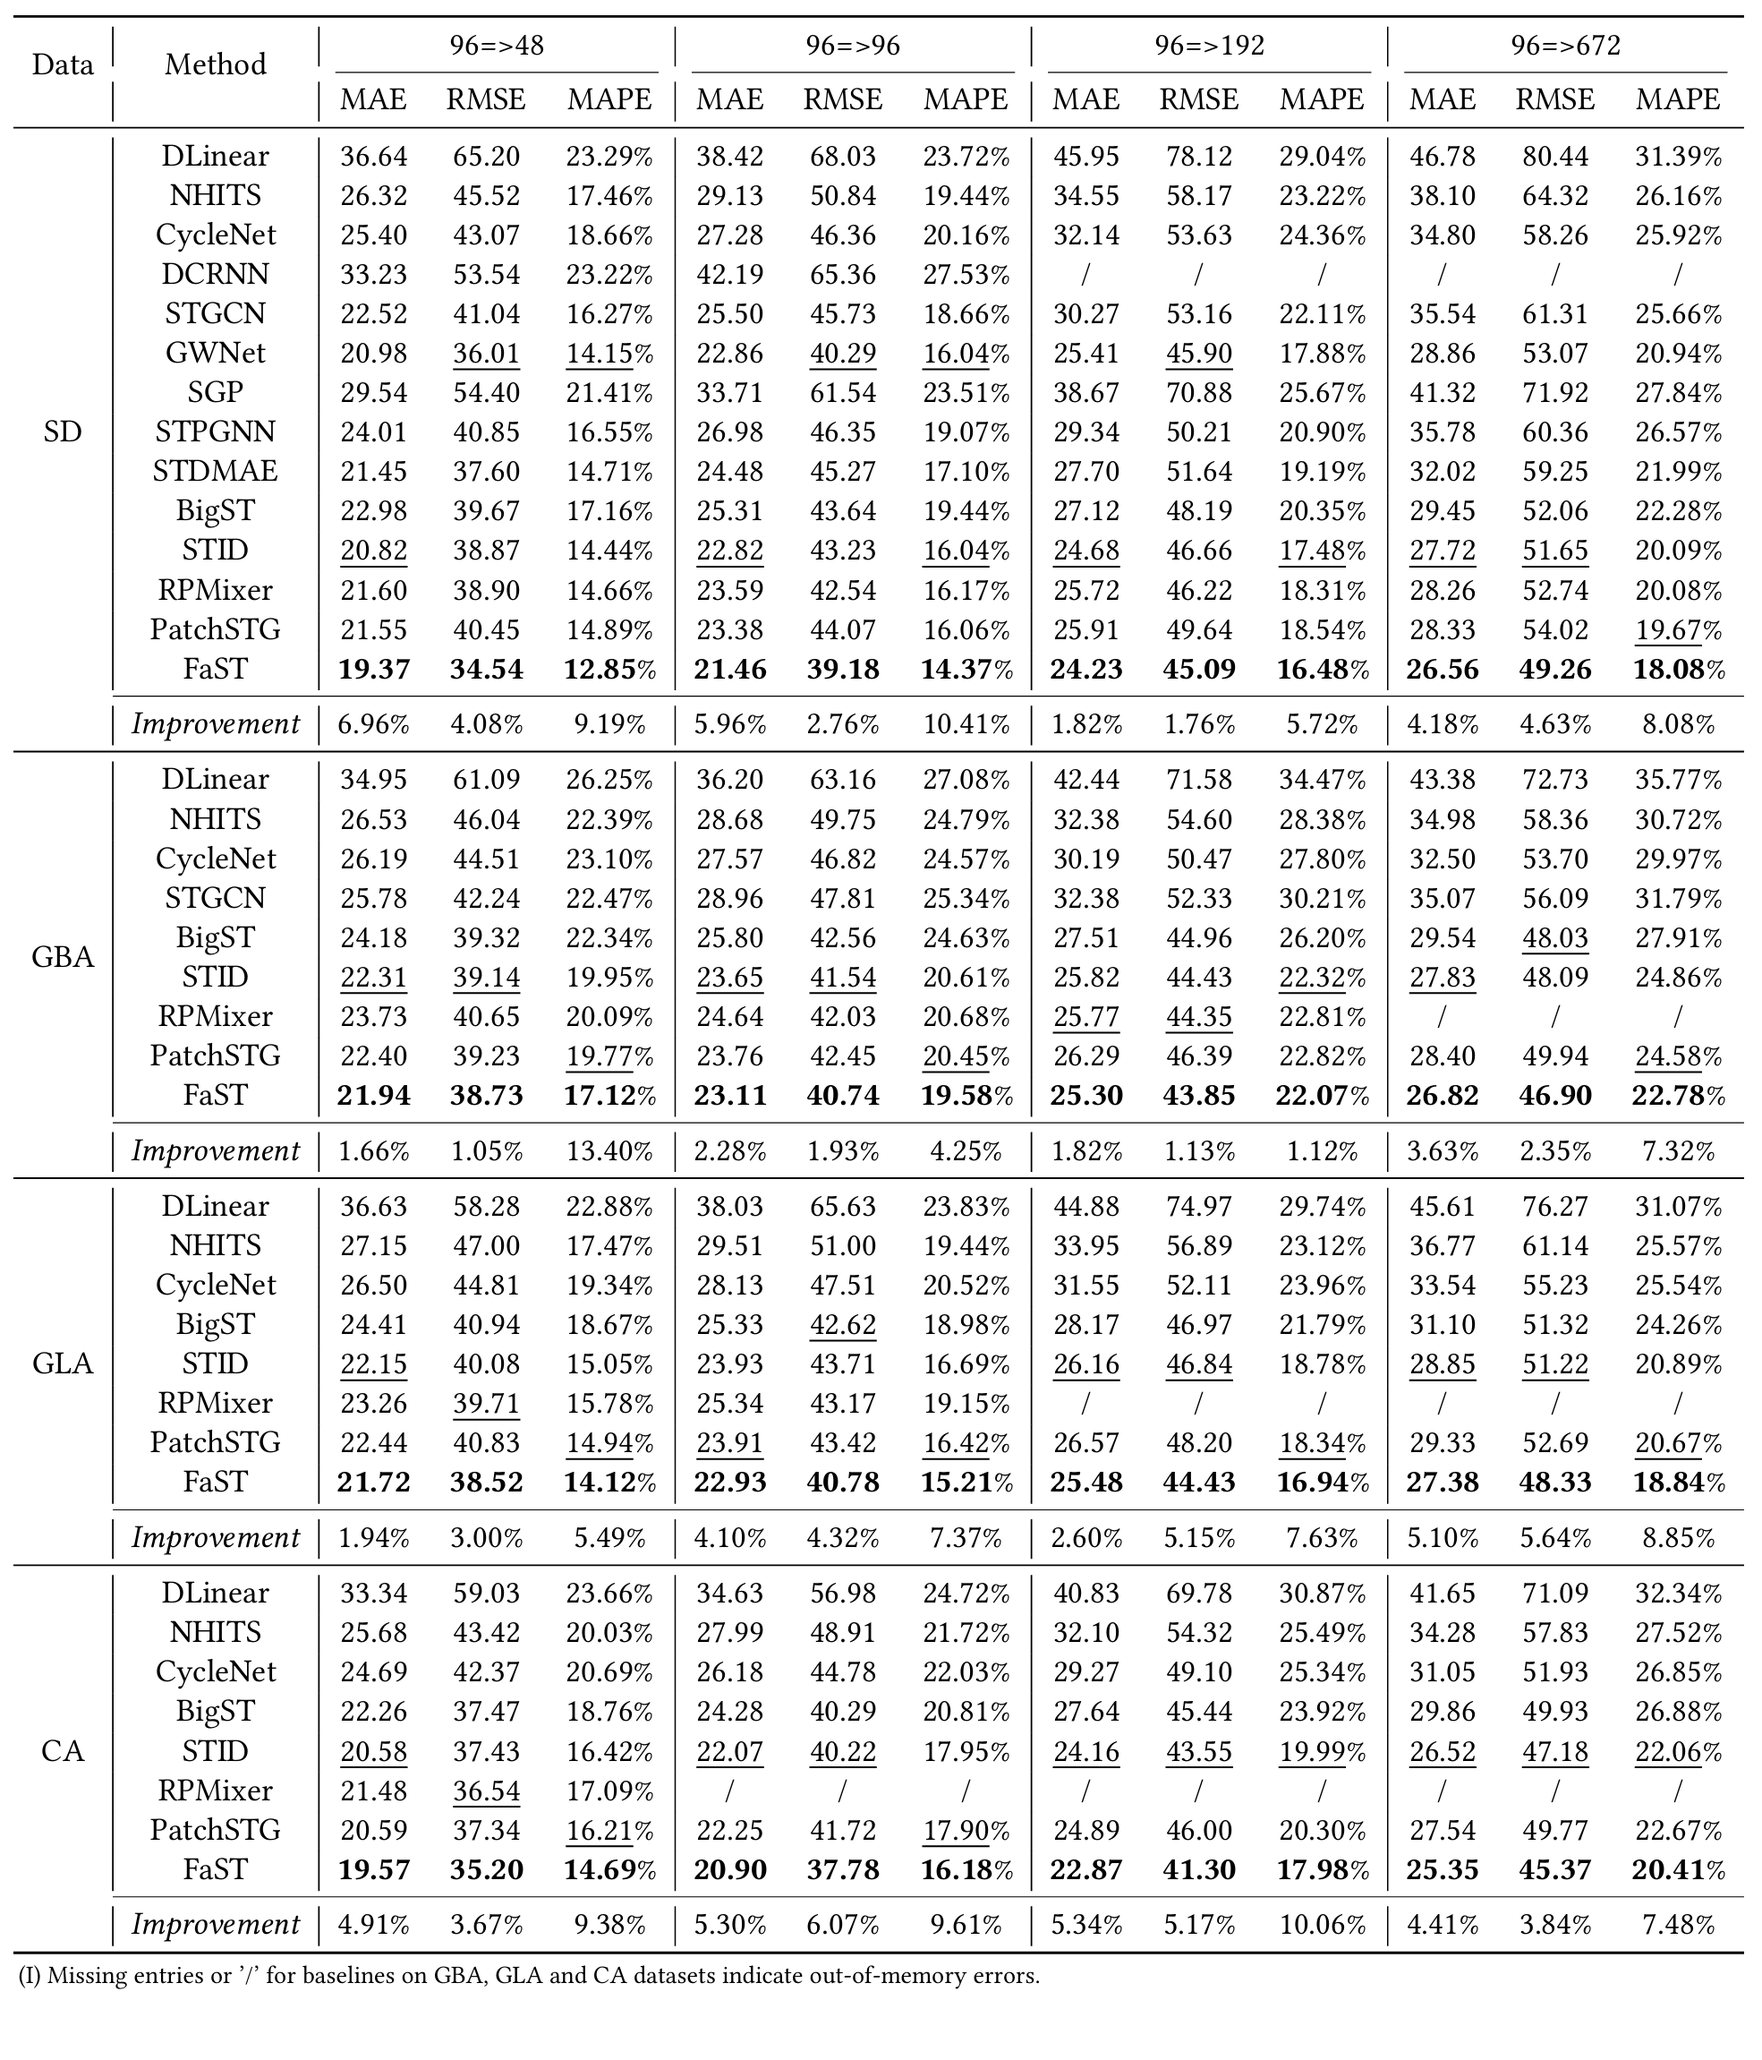
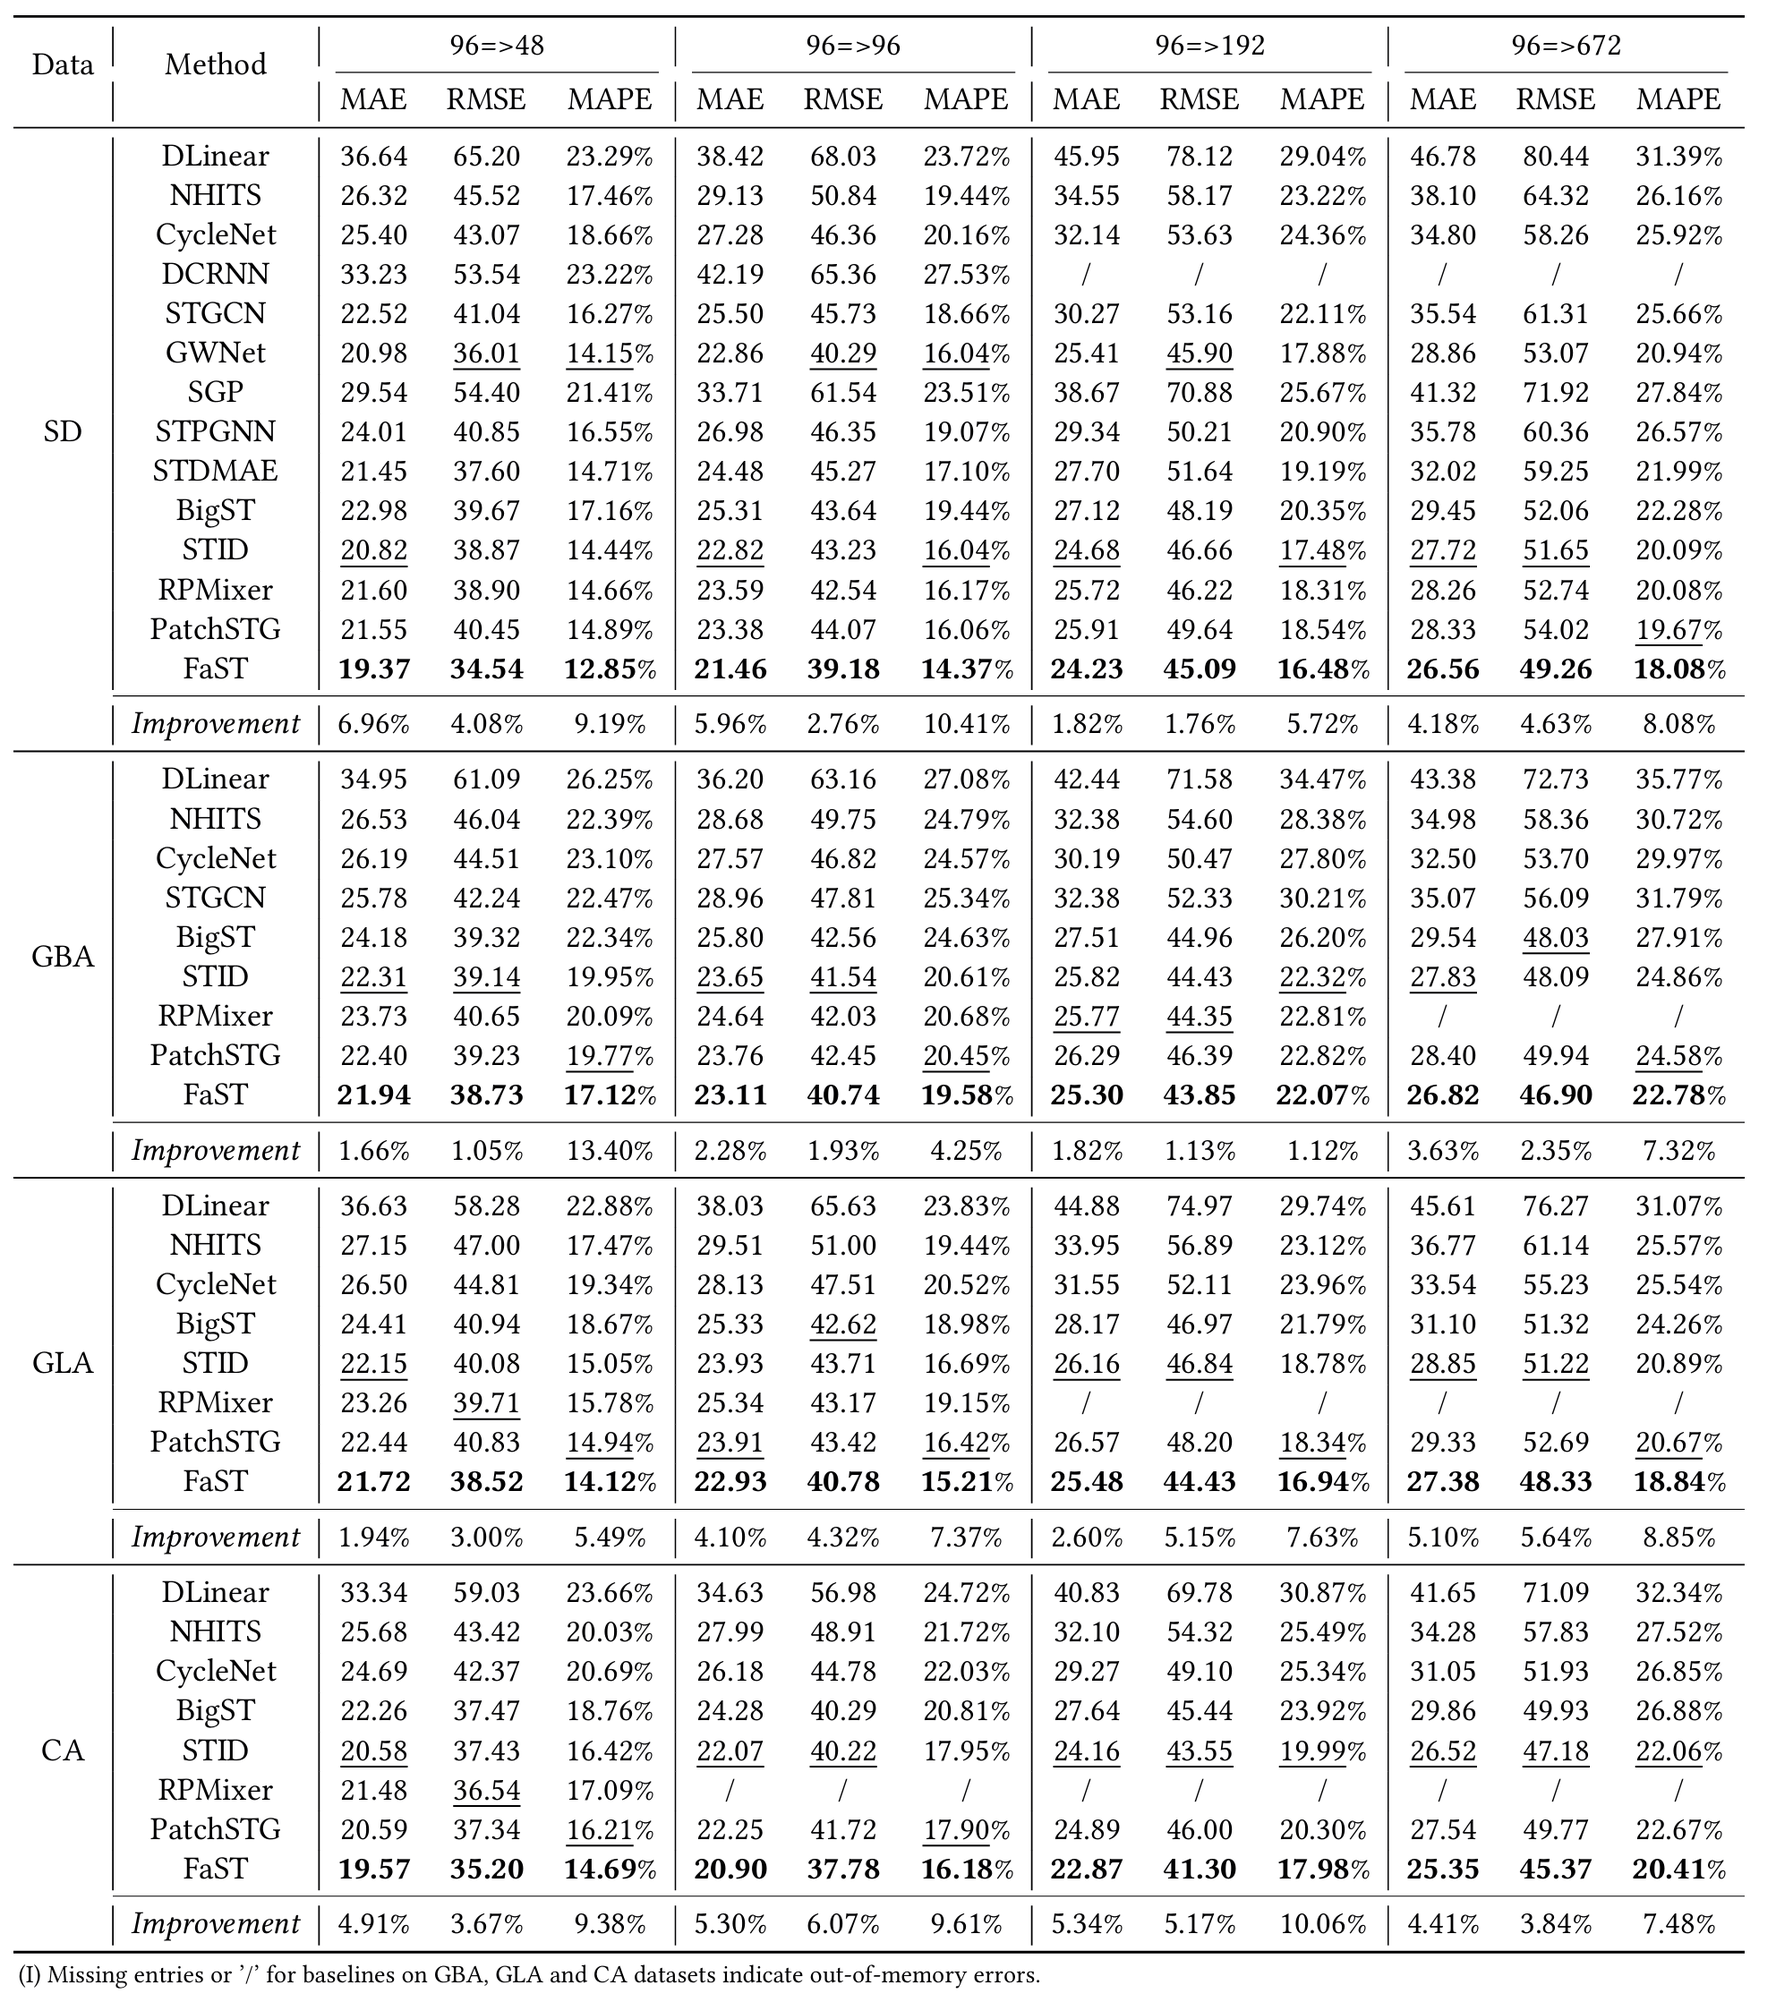
main

diff --git a/README.md b/README.md
@@ -29,7 +29,7 @@ pip install -r requirements.txt
 ```
 
 
-Unzip the downloaded data into the `DataPipeline` directory. Then, sequentially use the following command to generate the traffic data required for model training:
+Unzip the downloaded data into the `DataPipeline` directory. Then, use the following command to generate the traffic data required for model training:
 
 
 ```shell
@@ -57,7 +57,7 @@ For more dataset details, refer to literature [1].
 ### 1.3 Data Generation for Model Training
 
 
-We use the 2019 SD, GLA, and CA datasets. First, we obtain all samples through a sliding window, then split the samples into training, validation, and test sets in a 6:2:2 ratio.
+We use the 2019 SD, GBA, GLA, and CA datasets. First, we obtain all samples through a sliding window, then split the samples into training, validation, and test sets in a 6:2:2 ratio.
 The generated data will be stored in the `main-master/datasets` directory. In each data directory, the `his.npz` file stores raw traffic flow values along with derived daily and weekly features. The `adj_mx.pkl` file contains the adjacency matrix for the data, and `desc.json` stores the data information. Other folders, such as `{input_len}_{output_len}`, store the sample indices for the training, validation, and test sets for the corresponding forecasting length.
 
 
